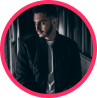
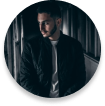
some images fixed

diff --git a/dist/assets/css/style.min.css b/dist/assets/css/style.min.css
@@ -1,1 +1,1 @@
-@import url("https://fonts.googleapis.com/css2?family=Montserrat:wght@500;600;700;800&display=swap");*{padding:0;margin:0;box-sizing:border-box}body{font-family:Montserrat;font-weight:700;font-size:18px}.splide__container{box-sizing:border-box;position:relative}.splide__list{backface-visibility:hidden;display:flex;height:100%;margin:0!important;padding:0!important}.splide.is-initialized:not(.is-active) .splide__list{display:block}.splide__pagination{align-items:center;display:flex;flex-wrap:wrap;justify-content:center;margin:0;pointer-events:none}.splide__pagination li{display:inline-block;line-height:1;list-style-type:none;margin:0;pointer-events:auto}.splide:not(.is-overflow) .splide__pagination{display:none}.splide__progress__bar{width:0}.splide{position:relative;visibility:hidden}.splide.is-initialized,.splide.is-rendered{visibility:visible}.splide__slide{backface-visibility:hidden;box-sizing:border-box;flex-shrink:0;list-style-type:none!important;margin:0;position:relative}.splide__slide img{vertical-align:bottom}.splide__spinner{animation:a 1s linear infinite;border:2px solid #999;border-left-color:transparent;border-radius:50%;bottom:0;contain:strict;display:inline-block;height:20px;left:0;margin:auto;position:absolute;right:0;top:0;width:20px}.splide__sr{clip:rect(0 0 0 0);border:0;height:1px;margin:-1px;overflow:hidden;padding:0;position:absolute;width:1px}.splide__toggle.is-active .splide__toggle__play,.splide__toggle__pause{display:none}.splide__toggle.is-active .splide__toggle__pause{display:inline}.splide__track{overflow:hidden;position:relative;z-index:0}@keyframes a{0%{transform:rotate(0)}to{transform:rotate(1turn)}}.splide__track--draggable{-webkit-touch-callout:none;-webkit-user-select:none;-moz-user-select:none;user-select:none}.splide__track--fade>.splide__list>.splide__slide{margin:0!important;opacity:0;z-index:0}.splide__track--fade>.splide__list>.splide__slide.is-active{opacity:1;z-index:1}.splide--rtl{direction:rtl}.splide__track--ttb>.splide__list{display:block}.splide__arrow{align-items:center;background:#ccc;border:0;border-radius:50%;cursor:pointer;display:flex;height:2em;justify-content:center;opacity:.7;padding:0;position:absolute;top:50%;transform:translateY(-50%);width:2em;z-index:1}.splide__arrow svg{fill:#000;height:1.2em;width:1.2em}.splide__arrow:hover:not(:disabled){opacity:.9}.splide__arrow:disabled{opacity:.3}.splide__arrow:focus-visible{outline:3px solid #0bf;outline-offset:3px}.splide__arrow--prev{left:1em}.splide__arrow--prev svg{transform:scaleX(-1)}.splide__arrow--next{right:1em}.splide.is-focus-in .splide__arrow:focus{outline:3px solid #0bf;outline-offset:3px}.splide__pagination{bottom:.5em;left:0;padding:0 1em;position:absolute;right:0;z-index:1}.splide__pagination__page{background:#ccc;border:0;border-radius:50%;display:inline-block;height:8px;margin:3px;opacity:.7;padding:0;position:relative;transition:transform .2s linear;width:8px}.splide__pagination__page.is-active{background:#fff;transform:scale(1.4);z-index:1}.splide__pagination__page:hover{cursor:pointer;opacity:.9}.splide.is-focus-in .splide__pagination__page:focus,.splide__pagination__page:focus-visible{outline:3px solid #0bf;outline-offset:3px}.splide__progress__bar{background:#ccc;height:3px}.splide__slide{-webkit-tap-highlight-color:rgba(0,0,0,0)}.splide__slide:focus{outline:0}@supports (outline-offset:-3px){.splide__slide:focus-visible{outline:3px solid #0bf;outline-offset:-3px}}@media screen and (-ms-high-contrast:none){.splide__slide:focus-visible{border:3px solid #0bf}}@supports (outline-offset:-3px){.splide.is-focus-in .splide__slide:focus{outline:3px solid #0bf;outline-offset:-3px}}@media screen and (-ms-high-contrast:none){.splide.is-focus-in .splide__slide:focus{border:3px solid #0bf}.splide.is-focus-in .splide__track>.splide__list>.splide__slide:focus{border-color:#0bf}}.splide__toggle{cursor:pointer}.splide.is-focus-in .splide__toggle:focus,.splide__toggle:focus-visible{outline:3px solid #0bf;outline-offset:3px}.splide__track--nav>.splide__list>.splide__slide{border:3px solid transparent;cursor:pointer}.splide__track--nav>.splide__list>.splide__slide.is-active{border:3px solid #000}.splide__arrows--rtl .splide__arrow--prev{left:auto;right:1em}.splide__arrows--rtl .splide__arrow--prev svg{transform:scaleX(1)}.splide__arrows--rtl .splide__arrow--next{left:1em;right:auto}.splide__arrows--rtl .splide__arrow--next svg{transform:scaleX(-1)}.splide__arrows--ttb .splide__arrow{left:50%;transform:translate(-50%)}.splide__arrows--ttb .splide__arrow--prev{top:1em}.splide__arrows--ttb .splide__arrow--prev svg{transform:rotate(-90deg)}.splide__arrows--ttb .splide__arrow--next{bottom:1em;top:auto}.splide__arrows--ttb .splide__arrow--next svg{transform:rotate(90deg)}.splide__pagination--ttb{bottom:0;display:flex;flex-direction:column;left:auto;padding:1em 0;right:.5em;top:0}.d-flex{display:flex}.flex-wrap{flex-wrap:wrap}.align-items-center{align-items:center}.align-items-end{align-items:end}.justify-content-center{justify-content:center}.justify-content-between{justify-content:space-between}.text-center{text-align:center}.text-right{text-align:right}.mt-a{margin-top:auto}.ml-a{margin-left:auto}.mr-a{margin-right:auto}.mb-a{margin-bottom:auto}.purple{color:#ff2e65}.black{color:#0e0c0d}.blue{color:#e3ecf5}.title{font-size:24px;font-weight:700;margin-bottom:25px;color:#231f20}.title.large{font-size:30px;color:#ff2e65}.title.big{font-size:44px;margin-bottom:47px}.title.big span{color:#ff2e65}a{text-decoration:none;color:#0e0c0d}input:focus,textarea:focus{outline:unset}button{border:0;cursor:pointer}button:focus{outline:unset}ul{list-style-type:none}.header{padding:8px 0;background-color:#fff;position:sticky;top:0;z-index:1}.header .logo{margin-right:51px}.header .logo img{margin-right:14px}.header .logo__title{font-size:39px;text-transform:uppercase;font-weight:800}.header .logo__slogan{font-size:9.3px;font-weight:600}.header__location{font-weight:600}.header__location--title{margin-right:8px}.header__location--bottom{font-size:14px;margin-top:5px}.header__circle{width:4px;height:4px;border-radius:50%;background-color:#ff2e65;margin:0 6px}.header__call{background-color:#f3f3f7;padding:7px 28px;border-radius:28px;color:#696f7a;font-size:14px;font-weight:700;line-height:28px}.header__call:hover{background:#ff2e65;color:#fff}.header__phone{font-size:26px;font-weight:700;margin-left:26px}.header__phone:hover{color:#fa0042}.nav{position:sticky;top:80px;background-color:#fff;z-index:2;padding-bottom:10px;display:block}.nav__list{gap:20px}.nav__list .link{font-size:15px;color:#0e0c0d;font-weight:600}.nav__list .link:hover{color:#ff2e65}.nav__auth{color:#696f7a;margin-right:30px;background:unset;margin-left:auto}.nav__auth,.nav__card{font-size:16px;font-weight:700}.nav__card{padding:7px 25px;border-radius:8px;background-color:#ff2e65;color:#fff;display:flex;line-height:28px}.nav__card:hover{background-color:#fa0042}.nav__card--title{display:flex;justify-content:center;align-items:center}.nav__card--title:after{content:"";width:2px;height:23px;border-radius:5px;background-color:#fff;display:inline-block;margin-left:11px;margin-right:18px}.footer{padding-top:57px;padding-bottom:69px;position:relative}.footer__copy{display:flex;align-items:center;justify-content:space-between;margin-top:39px}.footer__copy .copyright{font-size:14px}.footer__copy .payments{display:flex;align-items:center;gap:18px;padding-right:92px}.footer__row{display:flex}.footer__row ul.menu{flex-direction:column;margin-top:15px;margin-bottom:0}.footer__row ul.menu li{width:100%}.footer .links{display:flex;flex-wrap:wrap;margin-top:15px}.footer .links li{width:50%}.footer .links li a{font-size:16px;font-weight:500;opacity:.7;display:inline-block;margin-bottom:7px}.footer .links li a:hover{color:#ff2e65;opacity:1}.footer .menu{display:flex;flex-wrap:wrap;margin-bottom:23px}.footer .menu li{width:50%}.footer .menu li a{font-size:16px;display:inline-block;margin-bottom:7px}.footer .menu li a:hover{color:#ff2e65}.footer .foot{position:absolute;right:70px;bottom:0;z-index:-1}.footer .container{display:flex;flex-wrap:wrap;justify-content:space-between}.footer .logo{display:flex;align-items:center;margin-bottom:39px}.footer .logo img{margin-right:18px}.footer .logo__title{font-size:39px;text-transform:uppercase;font-weight:800}.footer .logo__slogan{font-size:9.3px;font-weight:600;text-transform:uppercase}.footer .phone{font-size:30px;margin-top:47px;color:#ff2e65;margin-bottom:19px;display:block}.footer .address{font-size:26px;margin-bottom:7px}.footer .info{font-size:15px;margin-bottom:24px}.footer__left{width:calc(100% - 445px)}.footer__left .phone{margin-top:0}.footer__right{width:445px;display:flex;flex-direction:column;align-items:flex-start}.footer__right .callme{background-color:#f3f3f7;border-radius:28px;padding:7px 27px;line-height:28px;font-size:14px;font-weight:700;color:#696f7a}.footer__right .callme:hover{background-color:#ff2e65;color:#fff}.footer__right .question{font-size:14px;margin-bottom:36px;gap:13px}.footer__right .socials{display:flex;flex-wrap:wrap}.footer__right .socials li{width:25%;padding:6.5px;display:flex}.footer__right .socials li:last-child{width:50%}.footer__right .socials a{display:flex;width:100%;height:52px;border:2px solid #e3ecf5;border-radius:13px;align-items:center;justify-content:center;background-color:#fff}.footer__right .socials a:hover{background-color:#e3ecf5;border-color:#98b9da}.container{max-width:1110px;margin:0 auto}.row{display:flex;flex-wrap:wrap;margin-left:-15px;margin-right:-15px}.ml-10{margin-left:10px}.mt-10{margin-top:10px}.mb-10{margin-bottom:10px}.mr-10{margin-right:10px}.ml-20{margin-left:20px}.mt-20{margin-top:20px}.mb-20{margin-bottom:20px}.mr-20{margin-right:20px}.ml-30{margin-left:30px}.mt-30{margin-top:30px}.mb-30{margin-bottom:30px}.mr-30{margin-right:30px}.ml-40{margin-left:40px}.mt-40{margin-top:40px}.mb-40{margin-bottom:40px}.mr-40{margin-right:40px}.ml-50{margin-left:50px}.mt-50{margin-top:50px}.mb-50{margin-bottom:50px}.mr-50{margin-right:50px}.ml-60{margin-left:60px}.mt-60{margin-top:60px}.mb-60{margin-bottom:60px}.mr-60{margin-right:60px}.ml-70{margin-left:70px}.mt-70{margin-top:70px}.mb-70{margin-bottom:70px}.mr-70{margin-right:70px}.ml-80{margin-left:80px}.mt-80{margin-top:80px}.mb-80{margin-bottom:80px}.mr-80{margin-right:80px}.ml-90{margin-left:90px}.mt-90{margin-top:90px}.mb-90{margin-bottom:90px}.mr-90{margin-right:90px}.ml-100{margin-left:100px}.mt-100{margin-top:100px}.mb-100{margin-bottom:100px}.mr-100{margin-right:100px}.col-1{flex-basis:8.33333%;width:8.33333%;max-width:8.33333%}.col-1,.col-2{padding:0 15px}.col-2{flex-basis:16.66667%;width:16.66667%;max-width:16.66667%}.col-3{flex-basis:25%;width:25%;max-width:25%}.col-3,.col-4{padding:0 15px}.col-4{flex-basis:33.33333%;width:33.33333%;max-width:33.33333%}.col-5{flex-basis:41.66667%;width:41.66667%;max-width:41.66667%}.col-5,.col-6{padding:0 15px}.col-6{flex-basis:50%;width:50%;max-width:50%}.col-7{flex-basis:58.33333%;width:58.33333%;max-width:58.33333%}.col-7,.col-8{padding:0 15px}.col-8{flex-basis:66.66667%;width:66.66667%;max-width:66.66667%}.col-9{flex-basis:75%;width:75%;max-width:75%;padding:0 15px}.col-10{flex-basis:83.33333%;width:83.33333%;max-width:83.33333%;padding:0 15px}.col-11{flex-basis:91.66667%;width:91.66667%;max-width:91.66667%;padding:0 15px}.col-12{flex-basis:100%;width:100%;max-width:100%;padding:0 15px}@media (max-width:1024px){.col-lg-1{flex-basis:8.33333%;width:8.33333%;max-width:8.33333%;padding:0 15px}.col-lg-2{flex-basis:16.66667%;width:16.66667%;max-width:16.66667%;padding:0 15px}.col-lg-3{flex-basis:25%;width:25%;max-width:25%;padding:0 15px}.col-lg-4{flex-basis:33.33333%;width:33.33333%;max-width:33.33333%;padding:0 15px}.col-lg-5{flex-basis:41.66667%;width:41.66667%;max-width:41.66667%;padding:0 15px}.col-lg-6{flex-basis:50%;width:50%;max-width:50%;padding:0 15px}.col-lg-7{flex-basis:58.33333%;width:58.33333%;max-width:58.33333%;padding:0 15px}.col-lg-8{flex-basis:66.66667%;width:66.66667%;max-width:66.66667%;padding:0 15px}.col-lg-9{flex-basis:75%;width:75%;max-width:75%;padding:0 15px}.col-lg-10{flex-basis:83.33333%;width:83.33333%;max-width:83.33333%;padding:0 15px}.col-lg-11{flex-basis:91.66667%;width:91.66667%;max-width:91.66667%;padding:0 15px}.col-lg-12{flex-basis:100%;width:100%;max-width:100%;padding:0 15px}}@media (max-width:760px){.col-md-1{flex-basis:8.33333%;width:8.33333%;max-width:8.33333%;padding:0 15px}.col-md-2{flex-basis:16.66667%;width:16.66667%;max-width:16.66667%;padding:0 15px}.col-md-3{flex-basis:25%;width:25%;max-width:25%;padding:0 15px}.col-md-4{flex-basis:33.33333%;width:33.33333%;max-width:33.33333%;padding:0 15px}.col-md-5{flex-basis:41.66667%;width:41.66667%;max-width:41.66667%;padding:0 15px}.col-md-6{flex-basis:50%;width:50%;max-width:50%;padding:0 15px}.col-md-7{flex-basis:58.33333%;width:58.33333%;max-width:58.33333%;padding:0 15px}.col-md-8{flex-basis:66.66667%;width:66.66667%;max-width:66.66667%;padding:0 15px}.col-md-9{flex-basis:75%;width:75%;max-width:75%;padding:0 15px}.col-md-10{flex-basis:83.33333%;width:83.33333%;max-width:83.33333%;padding:0 15px}.col-md-11{flex-basis:91.66667%;width:91.66667%;max-width:91.66667%;padding:0 15px}.col-md-12{flex-basis:100%;width:100%;max-width:100%;padding:0 15px}}@media (max-width:600px){.col-sm-1{flex-basis:8.33333%;width:8.33333%;max-width:8.33333%;padding:0 15px}.col-sm-2{flex-basis:16.66667%;width:16.66667%;max-width:16.66667%;padding:0 15px}.col-sm-3{flex-basis:25%;width:25%;max-width:25%;padding:0 15px}.col-sm-4{flex-basis:33.33333%;width:33.33333%;max-width:33.33333%;padding:0 15px}.col-sm-5{flex-basis:41.66667%;width:41.66667%;max-width:41.66667%;padding:0 15px}.col-sm-6{flex-basis:50%;width:50%;max-width:50%;padding:0 15px}.col-sm-7{flex-basis:58.33333%;width:58.33333%;max-width:58.33333%;padding:0 15px}.col-sm-8{flex-basis:66.66667%;width:66.66667%;max-width:66.66667%;padding:0 15px}.col-sm-9{flex-basis:75%;width:75%;max-width:75%;padding:0 15px}.col-sm-10{flex-basis:83.33333%;width:83.33333%;max-width:83.33333%;padding:0 15px}.col-sm-11{flex-basis:91.66667%;width:91.66667%;max-width:91.66667%;padding:0 15px}.col-sm-12{flex-basis:100%;width:100%;max-width:100%;padding:0 15px}}@media (max-width:275px){.col-xs-1{flex-basis:8.33333%;width:8.33333%;max-width:8.33333%;padding:0 15px}.col-xs-2{flex-basis:16.66667%;width:16.66667%;max-width:16.66667%;padding:0 15px}.col-xs-3{flex-basis:25%;width:25%;max-width:25%;padding:0 15px}.col-xs-4{flex-basis:33.33333%;width:33.33333%;max-width:33.33333%;padding:0 15px}.col-xs-5{flex-basis:41.66667%;width:41.66667%;max-width:41.66667%;padding:0 15px}.col-xs-6{flex-basis:50%;width:50%;max-width:50%;padding:0 15px}.col-xs-7{flex-basis:58.33333%;width:58.33333%;max-width:58.33333%;padding:0 15px}.col-xs-8{flex-basis:66.66667%;width:66.66667%;max-width:66.66667%;padding:0 15px}.col-xs-9{flex-basis:75%;width:75%;max-width:75%;padding:0 15px}.col-xs-10{flex-basis:83.33333%;width:83.33333%;max-width:83.33333%;padding:0 15px}.col-xs-11{flex-basis:91.66667%;width:91.66667%;max-width:91.66667%;padding:0 15px}.col-xs-12{flex-basis:100%;width:100%;max-width:100%;padding:0 15px}}.slider{margin-top:18px;margin-bottom:49px}.slider .splide__slide{height:410px;border-radius:13px;overflow:hidden;width:100%;opacity:.6;transition:.1s}.slider .splide__slide.is-active{opacity:1;max-width:1100px;width:1100px}.slider .splide__slide img{object-fit:contain;width:100%}.quotes{margin-bottom:55px}.quotes__row{display:flex;flex-wrap:wrap;justify-content:space-between}.quote img{width:98px;height:98px;object-fit:cover;border-radius:50%;overflow:hidden;margin-bottom:17px}.quote .name{font-size:18px;font-weight:600;color:#9d9d9b}.news{margin-bottom:51px;position:relative}.news__el{position:absolute;top:10px;left:-68px;z-index:-1}.news__box{background:#fff;box-shadow:0 4px 24px rgba(0,0,0,.06);border-radius:12px;display:flex;align-items:center;padding:14px 17px;gap:25px;transition:.5s}.news__box:hover{transform:translateY(-2px);box-shadow:0 4px 24px rgba(0,0,0,.12)}.news .price{font-size:16px;color:#ff2e65;margin-top:4px}.product{position:relative;margin-bottom:48px}.product .status{position:absolute;top:10px;right:10px;background-color:#ff2e65;color:#fff;font-size:16px;text-transform:uppercase;padding:6px 10px;border-radius:10px}.product img{aspect-ratio:1/1;object-fit:contain;margin-bottom:4px}.product .title{font-size:24px;font-weight:800;margin-bottom:18px;line-height:20px;display:-webkit-box;-webkit-line-clamp:2;overflow:hidden}.product .title:hover{color:#ff2e65}.product .text{font-weight:500;color:#686466;line-height:19px;font-size:13px;margin-bottom:23px;display:-webkit-box;-webkit-line-clamp:3;overflow:hidden}.product__bottom{display:flex;align-items:center;justify-content:space-between}.product .price{font-size:22px;font-weight:700;line-height:19px}.product button{padding:4px 23px;border-radius:8px;background-color:#ff2e65;color:#fff;font-size:14px;font-weight:700;line-height:28px}.product button:hover{background-color:#fa0042}.sale{border-radius:20px;overflow:hidden;margin-bottom:27px;display:flex;transition:.4s}.sale:hover{transform:scale(1.03)}.sale img{object-fit:cover;height:189px;width:100%}.sale.big img{height:405px}.sale__more{background-color:#ff2e65;color:#fff;padding:10px 40px;border-radius:23px;line-height:28px;font-size:14px;margin:auto;display:flex;font-weight:700}.sale__more:hover{background-color:#fa0042}.delivery{background-color:#e3ecf5;padding-top:56px;padding-bottom:74px;margin-top:62px}.delivery .title{margin-bottom:63px}.delivery__box{padding:43px 20px 20px;background-color:#fff;box-shadow:0 4px 24px rgba(0,0,0,.03);border-radius:14px;position:relative;margin-bottom:32px}.delivery__box .icon{position:absolute;width:77px;height:77px;border-radius:50%;background-color:#fff;display:flex;align-items:center;justify-content:center;top:-28px;left:0;right:0;margin:auto}.delivery__box .icon img{width:44px;height:44px;object-fit:contain}.delivery .text{font-size:14px;color:#473e43}.blog{background:#fff;box-shadow:0 4px 24px rgba(0,0,0,.06);border-radius:14px;overflow:hidden;margin-bottom:31px;transition:.4s}.blog:hover .title{color:#ff2e65}.blog .poster{display:block}.blog img{height:138px;object-fit:cover}.blog .content{padding:13px 20px 20px}.blog .title{display:flex;font-weight:700;font-size:20px;line-height:28px;margin-bottom:7px}.blog .text{font-size:13px;font-weight:500;color:#686466;line-height:20px;margin-bottom:20px}.blog .more{display:inline-block;color:#fff;background-color:#ff2e65;padding:8px 34px;border-radius:8px;font-size:14px;font-weight:700;line-height:28px}.blog .more:hover{background-color:#fa0042}@media (max-width:1024px){.nav__list{gap:15px}.container{padding-left:15px;padding-right:15px}}
+@import url("https://fonts.googleapis.com/css2?family=Montserrat:wght@500;600;700;800&display=swap");*{padding:0;margin:0;box-sizing:border-box}body{font-family:Montserrat;font-weight:700;font-size:18px}.splide__container{box-sizing:border-box;position:relative}.splide__list{backface-visibility:hidden;display:flex;height:100%;margin:0!important;padding:0!important}.splide.is-initialized:not(.is-active) .splide__list{display:block}.splide__pagination{align-items:center;display:flex;flex-wrap:wrap;justify-content:center;margin:0;pointer-events:none}.splide__pagination li{display:inline-block;line-height:1;list-style-type:none;margin:0;pointer-events:auto}.splide:not(.is-overflow) .splide__pagination{display:none}.splide__progress__bar{width:0}.splide{position:relative;visibility:hidden}.splide.is-initialized,.splide.is-rendered{visibility:visible}.splide__slide{backface-visibility:hidden;box-sizing:border-box;flex-shrink:0;list-style-type:none!important;margin:0;position:relative}.splide__slide img{vertical-align:bottom}.splide__spinner{animation:a 1s linear infinite;border:2px solid #999;border-left-color:transparent;border-radius:50%;bottom:0;contain:strict;display:inline-block;height:20px;left:0;margin:auto;position:absolute;right:0;top:0;width:20px}.splide__sr{clip:rect(0 0 0 0);border:0;height:1px;margin:-1px;overflow:hidden;padding:0;position:absolute;width:1px}.splide__toggle.is-active .splide__toggle__play,.splide__toggle__pause{display:none}.splide__toggle.is-active .splide__toggle__pause{display:inline}.splide__track{overflow:hidden;position:relative;z-index:0}@keyframes a{0%{transform:rotate(0)}to{transform:rotate(1turn)}}.splide__track--draggable{-webkit-touch-callout:none;-webkit-user-select:none;-moz-user-select:none;user-select:none}.splide__track--fade>.splide__list>.splide__slide{margin:0!important;opacity:0;z-index:0}.splide__track--fade>.splide__list>.splide__slide.is-active{opacity:1;z-index:1}.splide--rtl{direction:rtl}.splide__track--ttb>.splide__list{display:block}.splide__arrow{align-items:center;background:#ccc;border:0;border-radius:50%;cursor:pointer;display:flex;height:2em;justify-content:center;opacity:.7;padding:0;position:absolute;top:50%;transform:translateY(-50%);width:2em;z-index:1}.splide__arrow svg{fill:#000;height:1.2em;width:1.2em}.splide__arrow:hover:not(:disabled){opacity:.9}.splide__arrow:disabled{opacity:.3}.splide__arrow:focus-visible{outline:3px solid #0bf;outline-offset:3px}.splide__arrow--prev{left:1em}.splide__arrow--prev svg{transform:scaleX(-1)}.splide__arrow--next{right:1em}.splide.is-focus-in .splide__arrow:focus{outline:3px solid #0bf;outline-offset:3px}.splide__pagination{bottom:.5em;left:0;padding:0 1em;position:absolute;right:0;z-index:1}.splide__pagination__page{background:#ccc;border:0;border-radius:50%;display:inline-block;height:8px;margin:3px;opacity:.7;padding:0;position:relative;transition:transform .2s linear;width:8px}.splide__pagination__page.is-active{background:#fff;transform:scale(1.4);z-index:1}.splide__pagination__page:hover{cursor:pointer;opacity:.9}.splide.is-focus-in .splide__pagination__page:focus,.splide__pagination__page:focus-visible{outline:3px solid #0bf;outline-offset:3px}.splide__progress__bar{background:#ccc;height:3px}.splide__slide{-webkit-tap-highlight-color:rgba(0,0,0,0)}.splide__slide:focus{outline:0}@supports (outline-offset:-3px){.splide__slide:focus-visible{outline:3px solid #0bf;outline-offset:-3px}}@media screen and (-ms-high-contrast:none){.splide__slide:focus-visible{border:3px solid #0bf}}@supports (outline-offset:-3px){.splide.is-focus-in .splide__slide:focus{outline:3px solid #0bf;outline-offset:-3px}}@media screen and (-ms-high-contrast:none){.splide.is-focus-in .splide__slide:focus{border:3px solid #0bf}.splide.is-focus-in .splide__track>.splide__list>.splide__slide:focus{border-color:#0bf}}.splide__toggle{cursor:pointer}.splide.is-focus-in .splide__toggle:focus,.splide__toggle:focus-visible{outline:3px solid #0bf;outline-offset:3px}.splide__track--nav>.splide__list>.splide__slide{border:3px solid transparent;cursor:pointer}.splide__track--nav>.splide__list>.splide__slide.is-active{border:3px solid #000}.splide__arrows--rtl .splide__arrow--prev{left:auto;right:1em}.splide__arrows--rtl .splide__arrow--prev svg{transform:scaleX(1)}.splide__arrows--rtl .splide__arrow--next{left:1em;right:auto}.splide__arrows--rtl .splide__arrow--next svg{transform:scaleX(-1)}.splide__arrows--ttb .splide__arrow{left:50%;transform:translate(-50%)}.splide__arrows--ttb .splide__arrow--prev{top:1em}.splide__arrows--ttb .splide__arrow--prev svg{transform:rotate(-90deg)}.splide__arrows--ttb .splide__arrow--next{bottom:1em;top:auto}.splide__arrows--ttb .splide__arrow--next svg{transform:rotate(90deg)}.splide__pagination--ttb{bottom:0;display:flex;flex-direction:column;left:auto;padding:1em 0;right:.5em;top:0}.d-flex{display:flex}.flex-wrap{flex-wrap:wrap}.align-items-center{align-items:center}.align-items-end{align-items:end}.justify-content-center{justify-content:center}.justify-content-between{justify-content:space-between}.text-center{text-align:center}.text-right{text-align:right}.mt-a{margin-top:auto}.ml-a{margin-left:auto}.mr-a{margin-right:auto}.mb-a{margin-bottom:auto}.purple{color:#ff2e65}.black{color:#0e0c0d}.blue{color:#e3ecf5}.title{font-size:24px;font-weight:700;margin-bottom:25px;color:#231f20}.title.large{font-size:30px;color:#ff2e65}.title.big{font-size:44px;margin-bottom:47px}.title.big span{color:#ff2e65}a{text-decoration:none;color:#0e0c0d}input:focus,textarea:focus{outline:unset}button{border:0;cursor:pointer}button:focus{outline:unset}ul{list-style-type:none}.header{padding:8px 0;background-color:#fff;position:sticky;top:0;z-index:1}.header .logo{margin-right:51px}.header .logo img{margin-right:14px}.header .logo__title{font-size:39px;text-transform:uppercase;font-weight:800}.header .logo__slogan{font-size:9.3px;font-weight:600}.header__location{font-weight:600}.header__location--title{margin-right:8px}.header__location--bottom{font-size:14px;margin-top:5px}.header__circle{width:4px;height:4px;border-radius:50%;background-color:#ff2e65;margin:0 6px}.header__call{background-color:#f3f3f7;padding:7px 28px;border-radius:28px;color:#696f7a;font-size:14px;font-weight:700;line-height:28px}.header__call:hover{background:#ff2e65;color:#fff}.header__phone{font-size:26px;font-weight:700;margin-left:26px}.header__phone:hover{color:#fa0042}.nav{position:sticky;top:80px;background-color:#fff;z-index:2;padding-bottom:10px;display:block}.nav__list{gap:20px}.nav__list .link{font-size:15px;color:#0e0c0d;font-weight:600}.nav__list .link:hover{color:#ff2e65}.nav__auth{color:#696f7a;margin-right:30px;background:unset;margin-left:auto}.nav__auth,.nav__card{font-size:16px;font-weight:700}.nav__card{padding:7px 25px;border-radius:8px;background-color:#ff2e65;color:#fff;display:flex;line-height:28px}.nav__card:hover{background-color:#fa0042}.nav__card--title{display:flex;justify-content:center;align-items:center}.nav__card--title:after{content:"";width:2px;height:23px;border-radius:5px;background-color:#fff;display:inline-block;margin-left:11px;margin-right:18px}.footer{padding-top:57px;padding-bottom:69px;position:relative}.footer__copy{display:flex;align-items:center;justify-content:space-between;margin-top:39px}.footer__copy .copyright{font-size:14px}.footer__copy .payments{display:flex;align-items:center;gap:18px;padding-right:92px}.footer__row{display:flex}.footer__row ul.menu{flex-direction:column;margin-top:15px;margin-bottom:0}.footer__row ul.menu li{width:100%}.footer .links{display:flex;flex-wrap:wrap;margin-top:15px}.footer .links li{width:50%}.footer .links li a{font-size:16px;font-weight:500;opacity:.7;display:inline-block;margin-bottom:7px}.footer .links li a:hover{color:#ff2e65;opacity:1}.footer .menu{display:flex;flex-wrap:wrap;margin-bottom:23px}.footer .menu li{width:50%}.footer .menu li a{font-size:16px;display:inline-block;margin-bottom:7px}.footer .menu li a:hover{color:#ff2e65}.footer .foot{position:absolute;right:70px;bottom:0;z-index:-1}.footer .container{display:flex;flex-wrap:wrap;justify-content:space-between}.footer .logo{display:flex;align-items:center;margin-bottom:39px}.footer .logo img{margin-right:18px}.footer .logo__title{font-size:39px;text-transform:uppercase;font-weight:800}.footer .logo__slogan{font-size:9.3px;font-weight:600;text-transform:uppercase}.footer .phone{font-size:30px;margin-top:47px;color:#ff2e65;margin-bottom:19px;display:block}.footer .address{font-size:26px;margin-bottom:7px}.footer .info{font-size:15px;margin-bottom:24px}.footer__left{width:calc(100% - 445px)}.footer__left .phone{margin-top:0}.footer__right{width:445px;display:flex;flex-direction:column;align-items:flex-start}.footer__right .callme{background-color:#f3f3f7;border-radius:28px;padding:7px 27px;line-height:28px;font-size:14px;font-weight:700;color:#696f7a}.footer__right .callme:hover{background-color:#ff2e65;color:#fff}.footer__right .question{font-size:14px;margin-bottom:36px;gap:13px}.footer__right .socials{display:flex;flex-wrap:wrap}.footer__right .socials li{width:25%;padding:6.5px;display:flex}.footer__right .socials li:last-child{width:50%}.footer__right .socials a{display:flex;width:100%;height:52px;border:2px solid #e3ecf5;border-radius:13px;align-items:center;justify-content:center;background-color:#fff}.footer__right .socials a:hover{background-color:#e3ecf5;border-color:#98b9da}.container{max-width:1110px;margin:0 auto}.row{display:flex;flex-wrap:wrap;margin-left:-15px;margin-right:-15px}.ml-10{margin-left:10px}.mt-10{margin-top:10px}.mb-10{margin-bottom:10px}.mr-10{margin-right:10px}.ml-20{margin-left:20px}.mt-20{margin-top:20px}.mb-20{margin-bottom:20px}.mr-20{margin-right:20px}.ml-30{margin-left:30px}.mt-30{margin-top:30px}.mb-30{margin-bottom:30px}.mr-30{margin-right:30px}.ml-40{margin-left:40px}.mt-40{margin-top:40px}.mb-40{margin-bottom:40px}.mr-40{margin-right:40px}.ml-50{margin-left:50px}.mt-50{margin-top:50px}.mb-50{margin-bottom:50px}.mr-50{margin-right:50px}.ml-60{margin-left:60px}.mt-60{margin-top:60px}.mb-60{margin-bottom:60px}.mr-60{margin-right:60px}.ml-70{margin-left:70px}.mt-70{margin-top:70px}.mb-70{margin-bottom:70px}.mr-70{margin-right:70px}.ml-80{margin-left:80px}.mt-80{margin-top:80px}.mb-80{margin-bottom:80px}.mr-80{margin-right:80px}.ml-90{margin-left:90px}.mt-90{margin-top:90px}.mb-90{margin-bottom:90px}.mr-90{margin-right:90px}.ml-100{margin-left:100px}.mt-100{margin-top:100px}.mb-100{margin-bottom:100px}.mr-100{margin-right:100px}.col-1{flex-basis:8.33333%;width:8.33333%;max-width:8.33333%}.col-1,.col-2{padding:0 15px}.col-2{flex-basis:16.66667%;width:16.66667%;max-width:16.66667%}.col-3{flex-basis:25%;width:25%;max-width:25%}.col-3,.col-4{padding:0 15px}.col-4{flex-basis:33.33333%;width:33.33333%;max-width:33.33333%}.col-5{flex-basis:41.66667%;width:41.66667%;max-width:41.66667%}.col-5,.col-6{padding:0 15px}.col-6{flex-basis:50%;width:50%;max-width:50%}.col-7{flex-basis:58.33333%;width:58.33333%;max-width:58.33333%}.col-7,.col-8{padding:0 15px}.col-8{flex-basis:66.66667%;width:66.66667%;max-width:66.66667%}.col-9{flex-basis:75%;width:75%;max-width:75%;padding:0 15px}.col-10{flex-basis:83.33333%;width:83.33333%;max-width:83.33333%;padding:0 15px}.col-11{flex-basis:91.66667%;width:91.66667%;max-width:91.66667%;padding:0 15px}.col-12{flex-basis:100%;width:100%;max-width:100%;padding:0 15px}@media (max-width:1024px){.col-lg-1{flex-basis:8.33333%;width:8.33333%;max-width:8.33333%;padding:0 15px}.col-lg-2{flex-basis:16.66667%;width:16.66667%;max-width:16.66667%;padding:0 15px}.col-lg-3{flex-basis:25%;width:25%;max-width:25%;padding:0 15px}.col-lg-4{flex-basis:33.33333%;width:33.33333%;max-width:33.33333%;padding:0 15px}.col-lg-5{flex-basis:41.66667%;width:41.66667%;max-width:41.66667%;padding:0 15px}.col-lg-6{flex-basis:50%;width:50%;max-width:50%;padding:0 15px}.col-lg-7{flex-basis:58.33333%;width:58.33333%;max-width:58.33333%;padding:0 15px}.col-lg-8{flex-basis:66.66667%;width:66.66667%;max-width:66.66667%;padding:0 15px}.col-lg-9{flex-basis:75%;width:75%;max-width:75%;padding:0 15px}.col-lg-10{flex-basis:83.33333%;width:83.33333%;max-width:83.33333%;padding:0 15px}.col-lg-11{flex-basis:91.66667%;width:91.66667%;max-width:91.66667%;padding:0 15px}.col-lg-12{flex-basis:100%;width:100%;max-width:100%;padding:0 15px}}@media (max-width:760px){.col-md-1{flex-basis:8.33333%;width:8.33333%;max-width:8.33333%;padding:0 15px}.col-md-2{flex-basis:16.66667%;width:16.66667%;max-width:16.66667%;padding:0 15px}.col-md-3{flex-basis:25%;width:25%;max-width:25%;padding:0 15px}.col-md-4{flex-basis:33.33333%;width:33.33333%;max-width:33.33333%;padding:0 15px}.col-md-5{flex-basis:41.66667%;width:41.66667%;max-width:41.66667%;padding:0 15px}.col-md-6{flex-basis:50%;width:50%;max-width:50%;padding:0 15px}.col-md-7{flex-basis:58.33333%;width:58.33333%;max-width:58.33333%;padding:0 15px}.col-md-8{flex-basis:66.66667%;width:66.66667%;max-width:66.66667%;padding:0 15px}.col-md-9{flex-basis:75%;width:75%;max-width:75%;padding:0 15px}.col-md-10{flex-basis:83.33333%;width:83.33333%;max-width:83.33333%;padding:0 15px}.col-md-11{flex-basis:91.66667%;width:91.66667%;max-width:91.66667%;padding:0 15px}.col-md-12{flex-basis:100%;width:100%;max-width:100%;padding:0 15px}}@media (max-width:600px){.col-sm-1{flex-basis:8.33333%;width:8.33333%;max-width:8.33333%;padding:0 15px}.col-sm-2{flex-basis:16.66667%;width:16.66667%;max-width:16.66667%;padding:0 15px}.col-sm-3{flex-basis:25%;width:25%;max-width:25%;padding:0 15px}.col-sm-4{flex-basis:33.33333%;width:33.33333%;max-width:33.33333%;padding:0 15px}.col-sm-5{flex-basis:41.66667%;width:41.66667%;max-width:41.66667%;padding:0 15px}.col-sm-6{flex-basis:50%;width:50%;max-width:50%;padding:0 15px}.col-sm-7{flex-basis:58.33333%;width:58.33333%;max-width:58.33333%;padding:0 15px}.col-sm-8{flex-basis:66.66667%;width:66.66667%;max-width:66.66667%;padding:0 15px}.col-sm-9{flex-basis:75%;width:75%;max-width:75%;padding:0 15px}.col-sm-10{flex-basis:83.33333%;width:83.33333%;max-width:83.33333%;padding:0 15px}.col-sm-11{flex-basis:91.66667%;width:91.66667%;max-width:91.66667%;padding:0 15px}.col-sm-12{flex-basis:100%;width:100%;max-width:100%;padding:0 15px}}@media (max-width:275px){.col-xs-1{flex-basis:8.33333%;width:8.33333%;max-width:8.33333%;padding:0 15px}.col-xs-2{flex-basis:16.66667%;width:16.66667%;max-width:16.66667%;padding:0 15px}.col-xs-3{flex-basis:25%;width:25%;max-width:25%;padding:0 15px}.col-xs-4{flex-basis:33.33333%;width:33.33333%;max-width:33.33333%;padding:0 15px}.col-xs-5{flex-basis:41.66667%;width:41.66667%;max-width:41.66667%;padding:0 15px}.col-xs-6{flex-basis:50%;width:50%;max-width:50%;padding:0 15px}.col-xs-7{flex-basis:58.33333%;width:58.33333%;max-width:58.33333%;padding:0 15px}.col-xs-8{flex-basis:66.66667%;width:66.66667%;max-width:66.66667%;padding:0 15px}.col-xs-9{flex-basis:75%;width:75%;max-width:75%;padding:0 15px}.col-xs-10{flex-basis:83.33333%;width:83.33333%;max-width:83.33333%;padding:0 15px}.col-xs-11{flex-basis:91.66667%;width:91.66667%;max-width:91.66667%;padding:0 15px}.col-xs-12{flex-basis:100%;width:100%;max-width:100%;padding:0 15px}}.slider{margin-top:18px;margin-bottom:49px}.slider .splide__slide{width:100%;height:410px;border-radius:13px;overflow:hidden;opacity:.6;transition:.1s}.slider .splide__slide.is-active{opacity:1;max-width:1100px;width:1100px}.slider .splide__slide img{object-fit:contain;width:100%;height:100%}.quotes{margin-bottom:55px}.quotes__row{display:flex;flex-wrap:wrap;justify-content:space-between}.quote img{width:98px;height:98px;object-fit:cover;border-radius:50%;overflow:hidden;border:1px solid #ff2e65;margin-bottom:17px}.quote .name{font-size:18px;font-weight:600;color:#9d9d9b}.news{margin-bottom:51px;position:relative}.news__el{position:absolute;top:10px;left:-68px;z-index:-1}.news__box{background:#fff;box-shadow:0 4px 24px rgba(0,0,0,.06);border-radius:12px;display:flex;align-items:center;padding:14px 17px;gap:25px;transition:.5s}.news__box:hover{transform:translateY(-2px);box-shadow:0 4px 24px rgba(0,0,0,.12)}.news .price{font-size:16px;color:#ff2e65;margin-top:4px}.product{position:relative;margin-bottom:48px}.product .status{position:absolute;top:10px;right:10px;background-color:#ff2e65;color:#fff;font-size:16px;text-transform:uppercase;padding:6px 10px;border-radius:10px}.product img{aspect-ratio:1/1;object-fit:contain;margin-bottom:4px}.product .title{font-size:24px;font-weight:800;margin-bottom:18px;line-height:20px;display:-webkit-box;-webkit-line-clamp:2;overflow:hidden}.product .title:hover{color:#ff2e65}.product .text{font-weight:500;color:#686466;line-height:19px;font-size:13px;margin-bottom:23px;display:-webkit-box;-webkit-line-clamp:3;overflow:hidden}.product__bottom{display:flex;align-items:center;justify-content:space-between}.product .price{font-size:22px;font-weight:700;line-height:19px}.product button{padding:4px 23px;border-radius:8px;background-color:#ff2e65;color:#fff;font-size:14px;font-weight:700;line-height:28px}.product button:hover{background-color:#fa0042}.sale{border-radius:20px;overflow:hidden;margin-bottom:27px;display:flex;transition:.4s}.sale:hover{transform:scale(1.03)}.sale img{object-fit:cover;height:189px;width:100%}.sale.big img{height:405px}.sale__more{background-color:#ff2e65;color:#fff;padding:10px 40px;border-radius:23px;line-height:28px;font-size:14px;margin:auto;display:flex;font-weight:700}.sale__more:hover{background-color:#fa0042}.delivery{background-color:#e3ecf5;padding-top:56px;padding-bottom:74px;margin-top:62px}.delivery .title{margin-bottom:63px}.delivery__box{padding:43px 20px 20px;background-color:#fff;box-shadow:0 4px 24px rgba(0,0,0,.03);border-radius:14px;position:relative;margin-bottom:32px}.delivery__box .icon{position:absolute;width:77px;height:77px;border-radius:50%;background-color:#fff;display:flex;align-items:center;justify-content:center;top:-28px;left:0;right:0;margin:auto}.delivery__box .icon img{width:44px;height:44px;object-fit:contain}.delivery .text{font-size:14px;color:#473e43}.blog{background:#fff;box-shadow:0 4px 24px rgba(0,0,0,.06);border-radius:14px;overflow:hidden;margin-bottom:31px;transition:.4s}.blog:hover .title{color:#ff2e65}.blog .poster{display:block}.blog img{height:138px;object-fit:cover}.blog .content{padding:13px 20px 20px}.blog .title{display:flex;font-weight:700;font-size:20px;line-height:28px;margin-bottom:7px}.blog .text{font-size:13px;font-weight:500;color:#686466;line-height:20px;margin-bottom:20px}.blog .more{display:inline-block;color:#fff;background-color:#ff2e65;padding:8px 34px;border-radius:8px;font-size:14px;font-weight:700;line-height:28px}.blog .more:hover{background-color:#fa0042}@media (max-width:1024px){.nav__list{gap:15px}.container{padding-left:15px;padding-right:15px}}

diff --git a/dist/assets/css/style.css b/dist/assets/css/style.css
@@ -1416,10 +1416,10 @@ ul {
 }
 
 .slider .splide__slide {
+    width: 100%;
     height: 410px;
     border-radius: 13px;
     overflow: hidden;
-    width: 100%;
     opacity: 0.6;
     transition: 0.1s;
 }
@@ -1434,6 +1434,7 @@ ul {
     -o-object-fit: contain;
     object-fit: contain;
     width: 100%;
+    height: 100%;
 }
 
 .quotes {
@@ -1453,6 +1454,7 @@ ul {
     object-fit: cover;
     border-radius: 50%;
     overflow: hidden;
+    border: 1px solid #FF2E65;
     margin-bottom: 17px;
 }
 

diff --git a/src/assets/sass/part/_slider.scss b/src/assets/sass/part/_slider.scss
@@ -3,10 +3,10 @@
     margin-bottom: 49px;
     .splide {
         &__slide {
+            width: 100%;
             height: 410px;
             border-radius: 13px;
             overflow: hidden; 
-            width: 100%;
             opacity: 0.6;
             transition: 0.1s;
             &.is-active {
@@ -17,6 +17,7 @@
             img {
                 object-fit: contain;
                 width: 100%;
+                height: 100%;
             }
         }
     }

diff --git a/src/assets/sass/part/_quote.scss b/src/assets/sass/part/_quote.scss
@@ -13,7 +13,7 @@
         object-fit: cover;
         border-radius: 50%;
         overflow: hidden;
-        // border: 4px solid $purple;
+        border: 1px solid $purple;
         margin-bottom: 17px;
     }
     .name {
